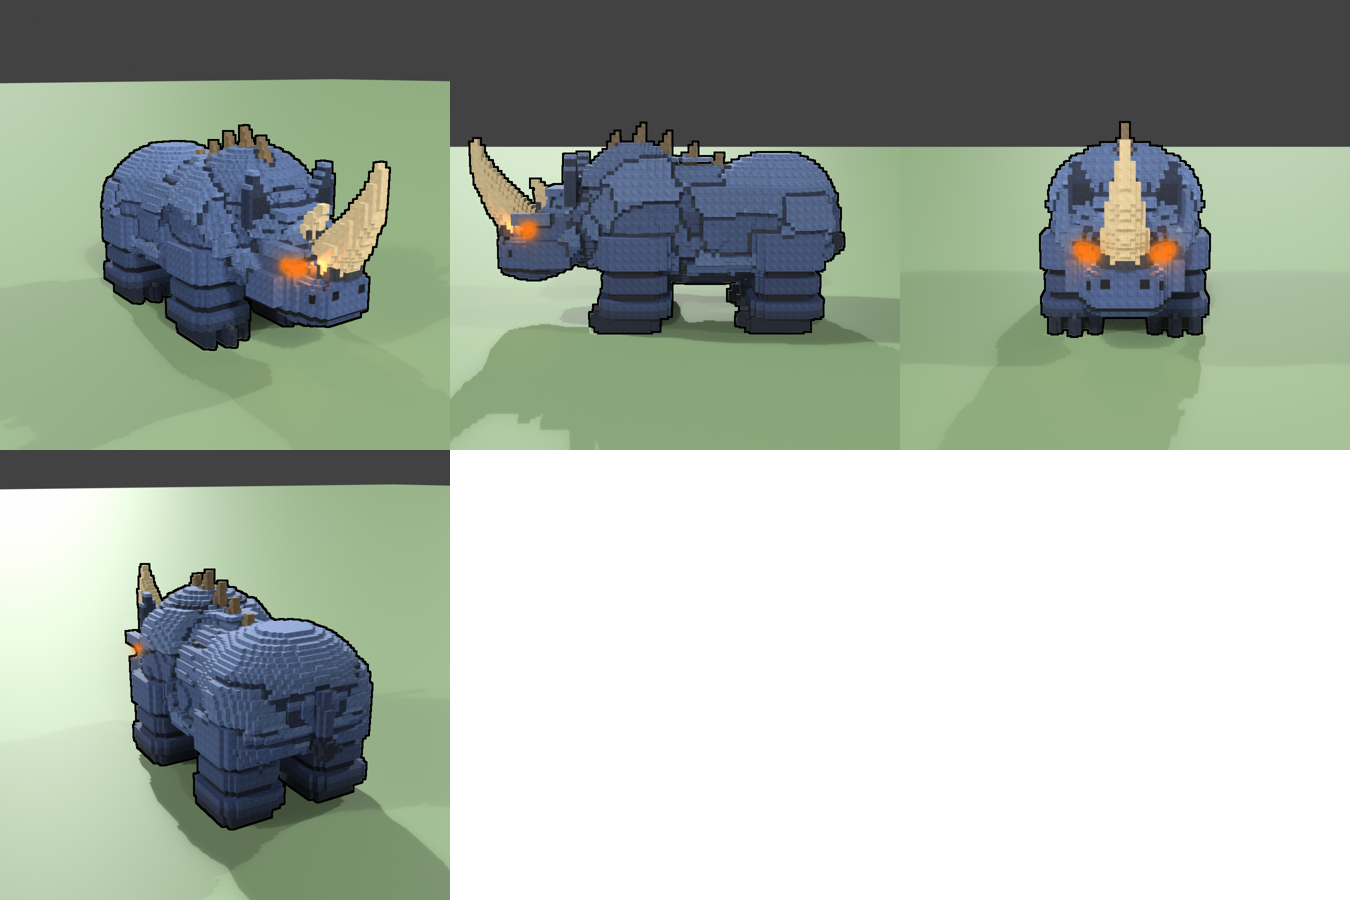
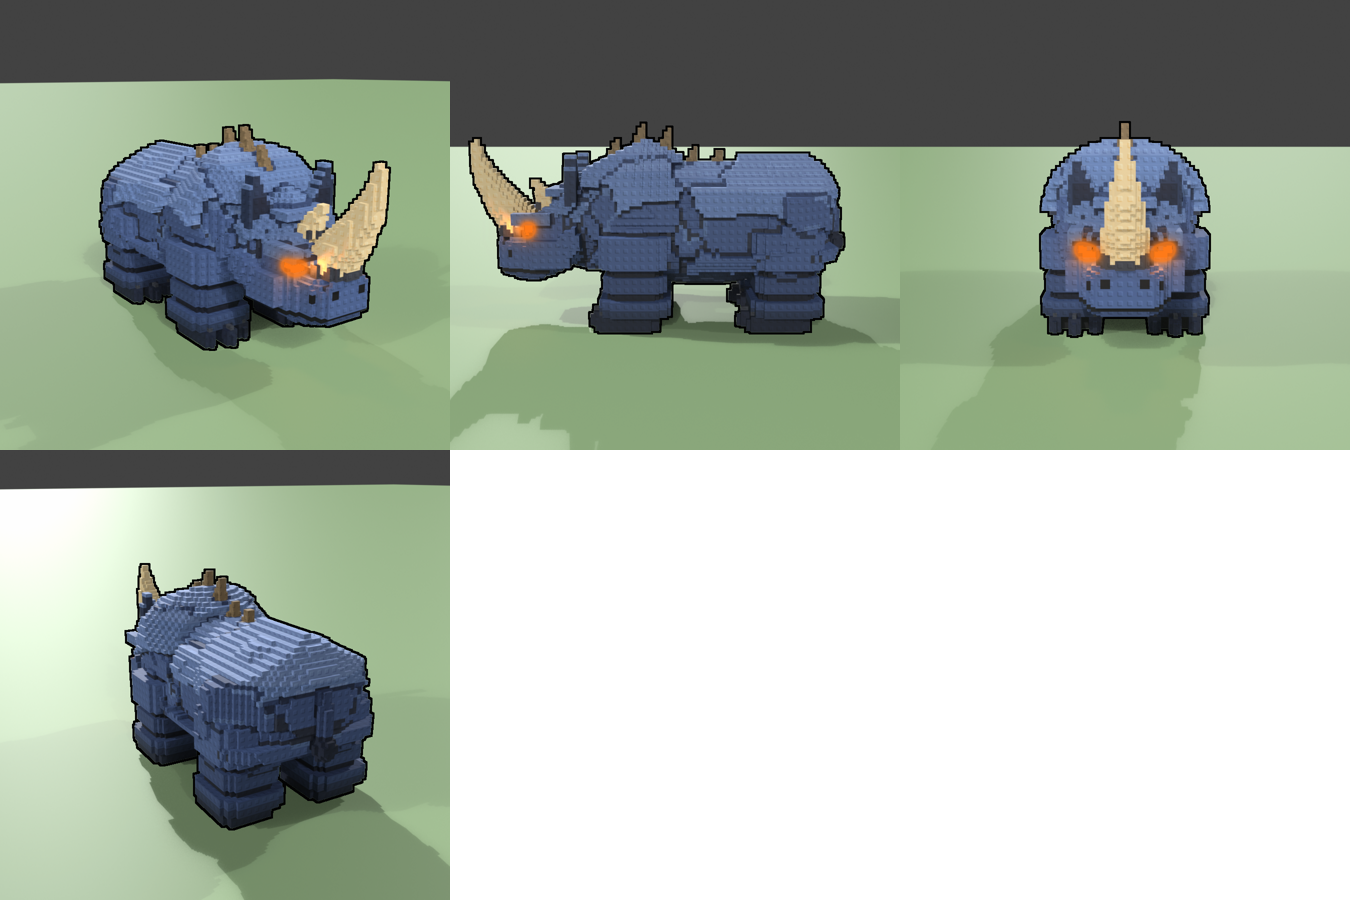
Stud Voxel: rhino plates as flat faceted slabs on fitted, slope-snapped planes; previews and chapter 92 updated
Claude-Session: https://claude.ai/code/session_01NPuT6tnB2mepVn22RWSB8t

diff --git a/.claude/skills/lihfolk-stud-voxel/examples/brick/war_rhino_plated_brick.py b/.claude/skills/lihfolk-stud-voxel/examples/brick/war_rhino_plated_brick.py
@@ -77,10 +77,28 @@ ci = np.clip(np.round(Z - float(TR['z0'])).astype(int), 0, pmap.shape[1] - 1)
 ri = np.clip(np.round(float(TR['ytop']) - Y).astype(int), 0, pmap.shape[0] - 1)
 plate = pmap[ri, ci]; L_ = plev[plate].astype(float)
 BELLY_Y = 13.5                                                         # below this the soft belly hide shows: no plates
-shell = (d < L_ - .5) & (d > -2.5) & (Y > BELLY_Y)
-TONE = (1.0, .94, 1.06)
+# FACETED SLABS: each plate is one flat slab, not a curved skin. A plane is fitted to the body surface under the plate,
+# its tilt is snapped to brick-friendly slopes (flat, 1:2, 1:1), and the slab's outer face is that plane lifted by the
+# plate's level. A snapped tilt makes a regular staircase, which reads as a clean slanted face; neighbouring slabs tilt
+# differently, so their edges step and the silhouette goes lumpy like the concept's.
+SNAP = np.array([0, .5, 1.0])
+body_zone = (Y > BELLY_Y) & (d > -2.5)
+surf = (np.abs(d) < .8) & body_zone & (X > 0)
+shell = np.zeros(n, bool); L_ = np.zeros(n); face = np.ones(n)
+for i in np.unique(plate[surf]):
+    P = np.stack([AX[surf & (plate == i)], Y[surf & (plate == i)], Z[surf & (plate == i)]], 1)
+    if len(P) < 12: continue
+    c0 = P.mean(0); nrm = np.linalg.svd(P - c0, full_matrices=False)[2][2]
+    if nrm.dot(c0 - np.array([0, 24.0, c0[2]])) < 0: nrm = -nrm          # point away from the body's axis
+    q = nrm / np.abs(nrm).max(); q = np.sign(q) * SNAP[np.argmin(np.abs(np.abs(q)[:, None] - SNAP[None]), 1)]
+    nrm = q / np.linalg.norm(q)
+    h = AX * nrm[0] + Y * nrm[1] + Z * nrm[2]
+    top = np.quantile(P.dot(nrm), .5) + float(plev[i]) - .5              # the slab's flat outer face
+    m_ = (plate == i) & body_zone & (((h <= top) & (d < float(plev[i]) + .6)) | (d < .5))   # never far off the body, never a hole
+    shell |= m_; L_[m_] = float(plev[i]); face[m_] = .84 + .26 * max(nrm[1], 0) + .05 * float(plev[i])   # faces that look up are lighter
+TONE = (1.0, .95, 1.05)
 put(shell, PLATE, p=0, l=0)
-col[shell] = (PLATE[None] * (np.array(TONE)[plate[shell] % 3] * (.80 + .09 * L_[shell]))[:, None])   # proud plates lighter
+col[shell] = PLATE[None] * (np.array(TONE)[plate[shell] % 3] * face[shell])[:, None]
 pid[shell] = 2000 + plate[shell]; lvl[shell] = L_[shell]
 put((d < .6) & (d > -2.5) & (Y > 9.5) & (Y <= BELLY_Y), HIDE * 1.4, st=False)                     # belly hide, darker
 # bone spikes along the hump: base on the top surface, raked back

diff --git a/docs/research/92-trace-and-match.md b/docs/research/92-trace-and-match.md
@@ -39,8 +39,11 @@ in Studio or on a phone.
 | Trace | plates resampled to one cell per brick; each plate gets one of four height levels so that touching plates never share a level, lighter plates higher |
 
 The model file reads the traced map and gives each hide brick the plate at its (z, y), so the
-same rows appear on both flanks and wrap over the back. Plate tops stay flat, so studs stay
-whole; every plate edge is a real step of one to three bricks.
+same rows appear on both flanks and wrap over the back. Each plate is then built as one flat
+slab: a plane is fitted to the body surface under the plate, its tilt is snapped to a
+brick-friendly slope, and the slab's outer face is that plane lifted by the plate's level.
+Faces that look up are lighter. The faceted slabs cost a little line placement (0.73 to 0.84
+bricks) for a cleaner surface.
 
 ## 3. Results on the war rhino
 
@@ -49,6 +52,7 @@ whole; every plate edge is a real step of one to three bricks.
 | Shipped (diagonal folds) | 0.76 | 1.78 | 1.49 | 83 | 15 % | 60 % |
 | First rebuild (hand-laid rings) | 0.78 | 1.16 | 1.50 | 95 | 29 % | 80 % |
 | Traced rebuild | 0.79 | 0.73 | 1.14 | 91 | 29 % | 79 % |
+| Traced, faceted slabs (current) | 0.79 | 0.84 | 1.37 | 92 | 30 % | 74 % |
 
 ## 4. Decisions
 
@@ -56,7 +60,7 @@ whole; every plate edge is a real step of one to three bricks.
 |---|---|---|---|
 | How to find plates in the drawing | dark lines between plates; lit top faces; colour clustering | lit top faces | the dark lines do not close into regions at this image size; the lit faces do |
 | How to place plates | hand-laid rings; traced map | traced map | placement comes from the concept and is measured |
-| Plate tops | tilted; flat | flat | a tilt turns into ripples on a brick grid and breaks the studs |
+| Plate tops | free tilt; flat skin offset; flat slab on a fitted plane with a snapped tilt | fitted plane, tilt snapped to flat, 1:2 or 1:1 | a free tilt ripples; a skin offset keeps the barrel's curve; a snapped plane gives a clean face with a regular staircase, and neighbouring slabs step against each other |
 | Fit | bounding box; IoU search; camera solve | IoU search | cheap and good enough for the torso; a camera solve is the next step |
 
 ## Not tested
